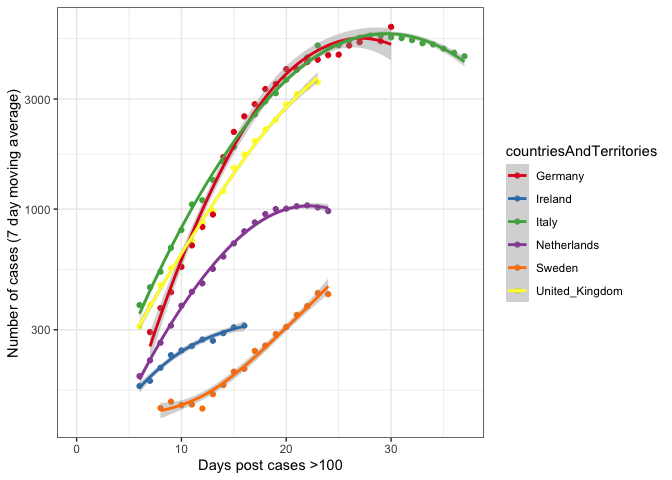
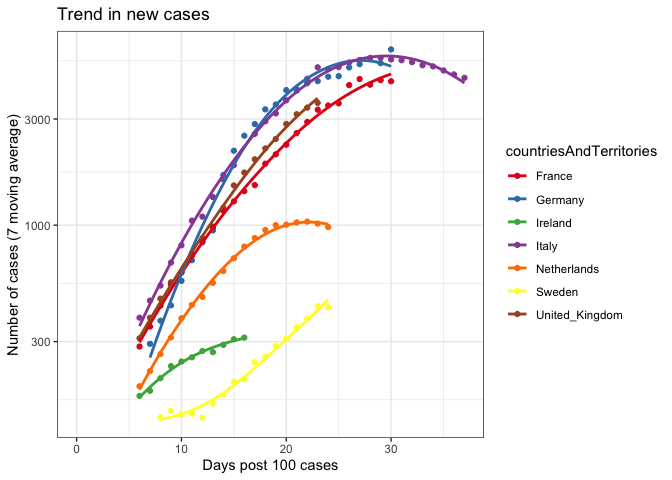
Polish up script

diff --git a/README.md b/README.md
@@ -3,8 +3,12 @@ COVID analysis
 Jon Yearsley
 4/3/2020
 
+A quick look at the European data on Covid-19.
+
 Data downloaded from
 <https://www.ecdc.europa.eu/sites/default/files/documents/COVID-19-geographic-disbtribution-worldwide.xlsx>
+
+## Process data
 
 ``` r
 d = read_excel("COVID-19-geographic-disbtribution-worldwide.xlsx")
@@ -21,10 +25,13 @@ d$cumdeaths = ave(d$deaths,
                   FUN=function(x){cumsum(x)})
 ```
 
-Find day when number of new cases exceeded 3
+Find day when number of new cases exceeded X (where X is typically set
+at 100-300)
 
 ``` r
-dplus = subset(d, cases>100)
+casesThreshold = 100
+casesStr = paste0('Days post ',casesThreshold,' cases') # String for graph labels
+dplus = subset(d, cases>casesThreshold)
 startDate = aggregate(julian~countriesAndTerritories + 
                         geoId + 
                         countryterritoryCode, 
@@ -44,20 +51,25 @@ country = c('Ireland',
             'Sweden',
             'United_Kingdom',
             'Netherlands', 
-            'Germany')
+            'Germany',
+            'France')
 
 d2 = subset(dplus, 
             countriesAndTerritories %in% country)
 ```
 
-Calculate 7 day roling averages
+Calculate rolling average over a window (nominally 7 days). One reason
+for doing this is because there’s uncertainty in the dates due to the
+time it takes for deaths and cases to be registered, etc.
 
 ``` r
+dayWindow = 7
+rollingStr = paste0('(',dayWindow,' moving average)')  # String for graph labels
 for (i in 1:length(country)) {
   tmp=subset(d2, countriesAndTerritories==country[i])
-  tmp$deaths_7day = rollmean(tmp$deaths, k=7, align='right', fill=NA)
-  tmp$cumdeaths_7day = rollmean(tmp$cumdeaths, k=7, align='right', fill=NA)
-  tmp$cases_7day = rollmean(tmp$cases, k=7, align='right', fill=NA)
+  tmp$deaths_rolling = rollmean(tmp$deaths, k=dayWindow, align='right', fill=NA)
+  tmp$cumdeaths_rolling = rollmean(tmp$cumdeaths, k=dayWindow, align='right', fill=NA)
+  tmp$cases_rolling = rollmean(tmp$cases, k=dayWindow, align='right', fill=NA)
   
   if (i==1) {
     d3 = tmp
@@ -67,28 +79,32 @@ for (i in 1:length(country)) {
 }
 ```
 
-Plot the epidemic
+# Visualisations
 
-    ## Warning: Removed 36 rows containing non-finite values (stat_smooth).
+### Temporal trends
 
-    ## Warning: Removed 36 rows containing missing values (geom_point).
+    ## Warning: Removed 42 rows containing non-finite values (stat_smooth).
+
+    ## Warning: Removed 42 rows containing missing values (geom_point).
 
 ![](README_files/figure-gfm/unnamed-chunk-5-1.png)<!-- -->
 
-    ## Warning: Removed 36 rows containing non-finite values (stat_smooth).
+    ## Warning: Removed 42 rows containing non-finite values (stat_smooth).
 
-    ## Warning: Removed 36 rows containing missing values (geom_point).
+    ## Warning: Removed 42 rows containing missing values (geom_point).
 
 ![](README_files/figure-gfm/unnamed-chunk-6-1.png)<!-- -->
 
-    ## Warning: Removed 36 rows containing non-finite values (stat_smooth).
+    ## Warning: Removed 42 rows containing non-finite values (stat_smooth).
 
-    ## Warning: Removed 36 rows containing missing values (geom_point).
+    ## Warning: Removed 42 rows containing missing values (geom_point).
 
 ![](README_files/figure-gfm/unnamed-chunk-7-1.png)<!-- -->
 
-    ## Warning: Removed 36 rows containing non-finite values (stat_smooth).
+### Epidemic indicator
 
-    ## Warning: Removed 36 rows containing missing values (geom_point).
+    ## Warning: Removed 42 rows containing non-finite values (stat_smooth).
+
+    ## Warning: Removed 42 rows containing missing values (geom_point).
 
 ![](README_files/figure-gfm/unnamed-chunk-8-1.png)<!-- -->
